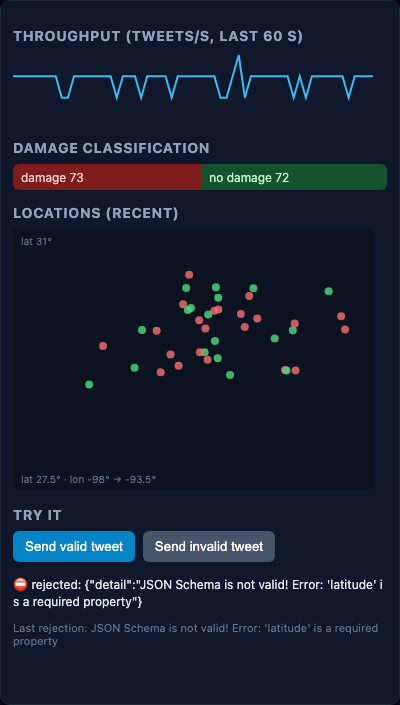
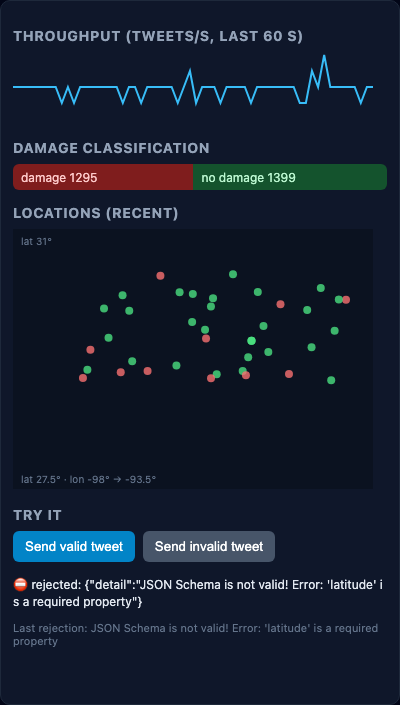
Migrate Azure Functions to the Python v2 programming model
- function_app.py with decorators; v1 function.json folders moved to legacy/v1-functions
- extension bundle [4.0.0, 5.0.0); Cosmos 4.x binding (container_name, connection)
- real Functions host in docker compose against Azurite/Event Hubs/Cosmos emulators
- tests unwrap v2 functions; CI smoke-tests the host; README + fresh screenshots

diff --git a/azure-func/function_app.py b/azure-func/function_app.py
@@ -1,0 +1,61 @@
+"""Hurricane tweet pipeline on the Azure Functions Python v2 programming model.
+
+Triggers and bindings are declared with decorators here; there is no function.json.
+App-setting names in `connection=` and %...% expressions resolve from app settings
+in Azure and from local.settings.json / environment variables locally.
+"""
+import json
+import typing
+import logging
+import os
+
+import azure.functions as func
+
+from shared_code.tweet_schema import TweetValidationError, parse_and_validate, to_cosmos_document
+
+# Function keys by default (APIM sits in front in Azure). The local docker compose host sets
+# HTTP_AUTH_LEVEL=anonymous because it has no key store to hand keys out from.
+app = func.FunctionApp(http_auth_level=func.AuthLevel(os.getenv("HTTP_AUTH_LEVEL", "function").lower()))
+
+
+@app.function_name(name="TriggerTweetsToBlobAndEventHub")
+@app.route(route="TriggerTweetsToBlobAndEventHub", methods=["GET", "POST"])
+@app.blob_output(arg_name="outputBlob", path="tweets/{rand-guid}.json",
+                 connection="STORAGE_CONNECTION")
+@app.event_hub_output(arg_name="outputEventHubMessage", event_hub_name="%EVENTHUB_NAME%",
+                      connection="EVENTHUB_CONNECTION")
+def tweets_to_blob_and_event_hub(req: func.HttpRequest,
+                                 outputBlob: func.Out[bytes],
+                                 outputEventHubMessage: func.Out[bytes]) -> func.HttpResponse:
+    """Validate a tweet, archive it to Blob Storage and forward it to Event Hubs."""
+    body = req.get_body()
+    try:
+        parse_and_validate(body)
+    except TweetValidationError as err:
+        logging.error(str(err))
+        return func.HttpResponse(str(err), status_code=400)
+
+    outputBlob.set(body)
+    outputEventHubMessage.set(body)
+    logging.info("Tweet written to blob storage and forwarded to Event Hub.")
+    return func.HttpResponse("This HTTP triggered function executed successfully.", status_code=200)
+
+
+@app.function_name(name="EventHubTriggerTweetsToCosmosDB")
+@app.event_hub_message_trigger(arg_name="events", event_hub_name="%EVENTHUB_NAME%",
+                               connection="EVENTHUB_CONNECTION",
+                               consumer_group="%EVENTHUB_FUNCTIONS_CONSUMER_GROUP%",
+                               cardinality=func.Cardinality.MANY, data_type=func.DataType.BINARY)
+@app.cosmos_db_output(arg_name="outputDocument", connection="COSMOS_CONNECTION",
+                      database_name="%COSMOS_DATABASE%", container_name="%COSMOS_CONTAINER%",
+                      create_if_not_exists=True, partition_key="/account_id")
+def event_hub_to_cosmos(events: typing.List[func.EventHubEvent],
+                        outputDocument: func.Out[func.DocumentList]) -> None:
+    # typing.List, not list[...]: the worker indexer silently drops functions annotated
+    # with the builtin generic (verified against the 4.x Python 3.12 host image).
+    """Write the whole Event Hub batch to Cosmos DB (one document per tweet, id = tweet_id)."""
+    docs = func.DocumentList()
+    for event in events:
+        docs.append(func.Document.from_dict(to_cosmos_document(json.loads(event.get_body()))))
+    outputDocument.set(docs)
+    logging.info("EventHub trigger wrote %d tweets to CosmosDB", len(docs))

diff --git a/tests/test_functions.py b/tests/test_functions.py
@@ -1,13 +1,22 @@
-"""The deployed Azure Functions, exercised with azure-functions test doubles."""
-import importlib
+"""The Azure Functions app (Python v2 model), exercised with azure-functions test doubles."""
 import json
+from pathlib import Path
 
 import azure.functions as func
 
+import function_app
 from stream.sample import generate
 
-http_fn = importlib.import_module("TriggerTweetsToBlobAndEventHub")
-eh_fn = importlib.import_module("EventHubTriggerTweetsToCosmosDB")
+FUNC_DIR = Path(__file__).resolve().parents[1] / "azure-func"
+
+
+def _user_fn(name: str):
+    """Unwrap the decorated function the way Microsoft Learn's unit-testing guide shows."""
+    return getattr(function_app, name).build().get_user_function()
+
+
+http_fn = _user_fn("tweets_to_blob_and_event_hub")
+eh_fn = _user_fn("event_hub_to_cosmos")
 
 
 class Out:
@@ -22,13 +31,13 @@ class Out:
 
 
 def _req(body: bytes) -> func.HttpRequest:
-    return func.HttpRequest(method="POST", url="/api/tweets", body=body)
+    return func.HttpRequest(method="POST", url="/api/TriggerTweetsToBlobAndEventHub", body=body)
 
 
 def test_http_function_writes_blob_and_event():
     body = json.dumps(generate(1)[0]).encode()
     blob, eh = Out(), Out()
-    resp = http_fn.main(_req(body), blob, eh)
+    resp = http_fn(_req(body), blob, eh)
     assert resp.status_code == 200
     assert blob.value == body and eh.value == body
 
@@ -37,7 +46,7 @@ def test_http_function_rejects_invalid():
     t = generate(1)[0]
     t.pop("tweet")
     blob, eh = Out(), Out()
-    resp = http_fn.main(_req(json.dumps(t).encode()), blob, eh)
+    resp = http_fn(_req(json.dumps(t).encode()), blob, eh)
     assert resp.status_code == 400
     assert blob.value is None and eh.value is None
 
@@ -46,5 +55,27 @@ def test_eventhub_function_keeps_whole_batch():
     tweets = generate(5)
     events = [func.EventHubEvent(body=json.dumps(t).encode()) for t in tweets]
     out = Out()
-    eh_fn.main(events, out)
+    eh_fn(events, out)
     assert [d["id"] for d in out.value] == [str(t["tweet_id"]) for t in tweets]
+
+
+def test_v2_model_registers_both_functions_with_expected_bindings():
+    fns = {f.get_function_name(): json.loads(f.get_function_json()) for f in function_app.app.get_functions()}
+    assert set(fns) == {"TriggerTweetsToBlobAndEventHub", "EventHubTriggerTweetsToCosmosDB"}
+    http_types = {b["type"] for b in fns["TriggerTweetsToBlobAndEventHub"]["bindings"]}
+    assert http_types == {"httpTrigger", "http", "blob", "eventHub"}
+    eh = {b["type"]: b for b in fns["EventHubTriggerTweetsToCosmosDB"]["bindings"]}
+    assert eh["eventHubTrigger"]["cardinality"].lower() == "many"
+    assert eh["cosmosDB"]["containerName"] == "%COSMOS_CONTAINER%"
+
+
+def test_no_function_json_and_bundle_4x():
+    assert not list(FUNC_DIR.rglob("function.json"))
+    host = json.loads((FUNC_DIR / "host.json").read_text())
+    assert host["extensionBundle"]["version"] == "[4.0.0, 5.0.0)"
+
+
+def test_event_hub_annotation_uses_typing_list():
+    # The worker indexer silently drops a function annotated with list[...] (see function_app.py).
+    src = (FUNC_DIR / "function_app.py").read_text()
+    assert "typing.List[func.EventHubEvent]" in src

diff --git a/scripts/screenshots.py b/scripts/screenshots.py
@@ -4,13 +4,16 @@
 Needs `docker compose up` with the producer running for ~30 s.
 """
 
+import html
 import os
+import subprocess
 
 from playwright.sync_api import sync_playwright
 
 OUT = "docs/screenshots"
 APP = os.getenv("APP_URL", "http://localhost:3000")
 API = os.getenv("API_URL", "http://localhost:8000")
+FUNCTIONS = os.getenv("FUNCTIONS_URL", "http://localhost:7071")
 COSMOS_EXPLORER = os.getenv("COSMOS_EXPLORER_URL", "http://localhost:1234")
 
 with sync_playwright() as p:
@@ -38,4 +41,18 @@ with sync_playwright() as p:
     page.wait_for_selector(".opblock-summary-path")
     page.wait_for_timeout(500)
     page.screenshot(path=f"{OUT}/api-docs.png")
+    # The real Azure Functions host (Python v2 app): landing page + its own execution log.
+    page.goto(FUNCTIONS)
+    page.wait_for_timeout(1000)
+    page.screenshot(path=f"{OUT}/functions-host.png")
+    logs = subprocess.run(["docker", "compose", "logs", "--no-log-prefix", "--tail", "4000", "functions"],
+                          capture_output=True, text=True).stdout.splitlines()
+    run = [ln for ln in logs if "Executed 'Functions." in ln]
+    keep = [ln for ln in run if "TriggerTweetsToBlobAndEventHub" in ln][-8:] + \
+        [ln for ln in run if "EventHubTriggerTweetsToCosmosDB" in ln][-12:]
+    page.set_content("<body style='margin:0;background:#0d1117'><pre style='color:#c9d1d9;font:13px/1.5 Menlo,monospace;"
+                     "padding:16px'>$ docker compose logs functions | grep Executed\n"
+                     + html.escape("\n".join(k.strip() for k in keep)) + "</pre></body>")
+    page.set_viewport_size({"width": 1440, "height": 520})
+    page.screenshot(path=f"{OUT}/functions-executions.png", full_page=True)
     browser.close()

diff --git a/README.md b/README.md
@@ -23,7 +23,7 @@ flowchart LR
     C --> BI[Power BI]
 ```
 
-The functions are still in [`azure-func/`](azure-func) and can be deployed as before. The original write-up (Kaggle preprocessing, Azure portal screenshots) is preserved in [docs/ORIGINAL_README.md](docs/ORIGINAL_README.md).
+The functions live in [`azure-func/function_app.py`](azure-func/function_app.py) and use the **Azure Functions Python v2 programming model** (decorators, no `function.json`; see [section 4](#4-azure-functions-python-v2)). They also run locally, on the real Functions host, against the emulators. The original write-up (Kaggle preprocessing, Azure portal screenshots) is preserved in [docs/ORIGINAL_README.md](docs/ORIGINAL_README.md).
 
 ## 3. The same pipeline, locally
 
@@ -34,7 +34,8 @@ Every Azure service has a local stand-in. The Azure SDKs are the real ones; only
 | API Management + HTTP Function | `api` (FastAPI), using the **same** schema code as the function (`azure-func/shared_code`) | 8000 |
 | Blob Storage | [Azurite](https://learn.microsoft.com/azure/storage/common/storage-use-azurite) | 10000-10002 |
 | Event Hubs | [Event Hubs emulator](https://learn.microsoft.com/azure/event-hubs/overview-emulator) (config in [`emulators/eventhubs-config.json`](emulators/eventhubs-config.json)) | 5672 AMQP, 9092 Kafka |
-| Event Hub → Cosmos Function | `worker`: Event Hub consumer (`cosmos-writer` group, checkpoints in Azurite) that upserts into Cosmos | – |
+| Both Azure Functions (v2 model) | `functions`: the real Azure Functions 4.x host (`mcr.microsoft.com/azure-functions/python:4-python3.12`) running `azure-func/function_app.py` against the emulators | 7071 |
+| Event Hub → Cosmos Function (feeds the live view) | `worker`: Event Hub consumer (`cosmos-writer` group, checkpoints in Azurite) that upserts into Cosmos | – |
 | Cosmos DB (NoSQL) | [Cosmos DB Linux emulator (vNext)](https://learn.microsoft.com/azure/cosmos-db/emulator-linux), works on arm64 and x64 | 8081, Data Explorer 1234 |
 | Power BI | `frontend`: React live view (Vite + TypeScript, served by nginx) | 3000 |
 | push_tweets.py | `producer`: replays the stream at 2 tweets/s, with every 25th tweet deliberately invalid | – |
@@ -52,6 +53,11 @@ flowchart LR
     API -->|SSE /api/live| UI
     API -->|/api/stats, /api/tweets| UI
     EH -. metadata .-> AZ
+    FX[functions · Azure Functions host<br/>function_app.py, v2] -->|blob output| AZ
+    FX -->|event_hub_output| EH
+    EH -->|functions group| FX
+    FX -->|cosmos_db_output| CO
+    CL[curl / APIM] -->|POST /api/TriggerTweetsToBlobAndEventHub| FX
 ```
 
 ### Message lifecycle
@@ -79,7 +85,51 @@ sequenceDiagram
     end
 ```
 
-## 4. Run it
+## 4. Azure Functions: Python v2
+
+Both functions are declared with decorators in one file, [`azure-func/function_app.py`](azure-func/function_app.py). The old `function.json` folders were moved (not deleted) to [`legacy/v1-functions/`](legacy/v1-functions).
+
+```mermaid
+flowchart LR
+    subgraph app["function_app.py · func.FunctionApp()"]
+        H["@app.route  TriggerTweetsToBlobAndEventHub<br/>@app.blob_output · @app.event_hub_output"]
+        T["@app.event_hub_message_trigger (cardinality many)<br/>EventHubTriggerTweetsToCosmosDB<br/>@app.cosmos_db_output"]
+    end
+    REQ[HTTP POST tweet] --> H
+    H -->|"tweets/rand-guid.json"| BLOB[("Blob · STORAGE_CONNECTION")]
+    H -->|event| EH{{"Event Hubs · EVENTHUB_CONNECTION<br/>EVENTHUB_NAME"}}
+    EH --> T
+    T -->|"DocumentList, id = tweet_id"| COS[("Cosmos DB · COSMOS_CONNECTION<br/>COSMOS_DATABASE / COSMOS_CONTAINER")]
+    SH["shared_code/tweet_schema.py"] -.-> H
+    SH -.-> T
+```
+
+| | v1 (before) | v2 (now) |
+|---|---|---|
+| Definition | `function.json` + `__init__.py` per function | decorators in `function_app.py` |
+| Extension bundle | `[3.*, 4.0.0)` (deprecated) | `[4.0.0, 5.0.0)` |
+| Cosmos binding | `collectionName`, `connectionStringSetting` (extension 3.x) | `container_name`, `connection` (extension 4.x) |
+| Python | 3.9 dev container | 3.12 (host image and dev container) |
+
+**App settings to set in Azure** (the v1 setting names were renamed): `STORAGE_CONNECTION`, `EVENTHUB_CONNECTION`, `EVENTHUB_NAME`, `EVENTHUB_FUNCTIONS_CONSUMER_GROUP` (`$Default` works), `COSMOS_CONNECTION`, `COSMOS_DATABASE`, `COSMOS_CONTAINER`. Optional: `HTTP_AUTH_LEVEL` (defaults to `function`; only the local compose host sets `anonymous`). `AzureWebJobsFeatureFlags=EnableWorkerIndexing` is **not** needed on the 4.x runtime. For `func start` outside Docker, copy [`azure-func/local.settings.example.json`](azure-func/local.settings.example.json) to `local.settings.json` (git-ignored) and fill in the emulator keys.
+
+Gotcha found while running it: annotate the Event Hub batch as `typing.List[func.EventHubEvent]`. With the builtin `list[...]` the worker's indexer silently registered zero functions.
+
+**The real host, running locally.** The `functions` service is the official Functions host image. It is published for amd64 only, so on Apple silicon it runs under emulation (`platform: linux/amd64`).
+
+![Functions host](docs/screenshots/functions-host.png)
+
+Its own log, with both functions executing against Azurite, the Event Hubs emulator and the Cosmos emulator:
+
+![Function executions](docs/screenshots/functions-executions.png)
+
+Try it:
+
+```bash
+curl -X POST http://localhost:7071/api/TriggerTweetsToBlobAndEventHub -d '{"tweet_id": 1}'   # 400 + schema error
+```
+
+## 5. Run it
 
 ```bash
 cp .env.example .env    # optional: defaults already target the emulators
@@ -91,14 +141,15 @@ docker compose up --build
 | http://localhost:3000 | Live view |
 | http://localhost:8000/docs | API (OpenAPI) |
 | http://localhost:1234 | Cosmos DB Data Explorer |
+| http://localhost:7071 | Azure Functions host (v2 app) |
 
-The first start takes about 30-60 s while the emulators boot. The api waits until all three are ready (`/health` reports each one), then the producer starts. Stop everything with `docker compose down`.
+The first start takes about 30-60 s (the Functions host a little longer under emulation) while the emulators boot. The api waits until all three are ready (`/health` reports each one), then the producer starts. Stop everything with `docker compose down`.
 
 > **Event Hubs emulator license.** Running the emulator requires accepting Microsoft's [emulator license terms](https://github.com/Azure/azure-event-hubs-emulator-installer/blob/main/EMULATOR_EULA.txt). `docker-compose.yml` passes `ACCEPT_EULA=Y` by default through `EVENTHUBS_EMULATOR_ACCEPT_EULA`.
 
 > **About the credentials in `stream/config.py`.** These are the *publicly documented* emulator defaults (Azurite `devstoreaccount1`, Event Hubs `SAS_KEY_VALUE`, the Cosmos emulator key). They are not secrets. To target real Azure, set the variables listed in `.env.example` in a `.env` that you never commit.
 
-## 5. What you see
+## 6. What you see
 
 **Live view.** It shows a counter for each pipeline stage, a throughput sparkline, the damage split, a map of where tweets came from, the live Event Hub feed (with image tiles), and the newest Cosmos documents:
 
@@ -116,9 +167,9 @@ The first start takes about 30-60 s while the emulators boot. The api waits unti
 
 ![API docs](docs/screenshots/api-docs.png)
 
-Screenshots are real, captured headless from the running stack with `uv run --with playwright python scripts/screenshots.py`.
+Screenshots are real, captured headless from the running stack with `uv run --no-project --with playwright python scripts/screenshots.py`.
 
-## 6. Data: synthetic by default
+## 7. Data: synthetic by default
 
 The original Kaggle datasets (Harvey tweets plus satellite damage images) need a Kaggle login and are not redistributable, so they are not in the repo. Locally, `stream/sample.py` generates a **deterministic synthetic stream** of 500 tweets in the same shape: templated Harvey-style text, coordinates around the Texas Gulf coast, a `damage_flag`, and a small generated PNG tile on about 60% of tweets. **None of it is real tweet or image data.**
 
@@ -128,30 +179,30 @@ To replay the real stream, run the original preprocessing (`preprocessing/script
 SAMPLE_PATH=/data/merged_tweets_image_metadata_stream.json  # mount it into the producer container
 ```
 
-## 7. Fixes made along the way
+## 8. Fixes made along the way
 
 - **The Event Hub → Cosmos function lost data.** It called `outputDocument.set()` once per event, so each batch kept only its last tweet. It now writes the whole batch as a `DocumentList`.
 - **Shared validation.** The HTTP function's schema check (400 on bad JSON or schema failure) moved into `shared_code/`, so the local api enforces exactly the same contract. A stray `ValueError` used to fall through and return nothing; it now returns a 400 too.
 - Cosmos documents get `id = str(tweet_id)`, so retries upsert instead of duplicating.
 - `push_tweets.py` defaults to the local api when `HURRICANE_API_URL` is unset.
 
-## 8. Project layout
+## 9. Project layout
 
 ```
-azure-func/            Azure Functions (deployable) + shared_code/ schema
+azure-func/            Azure Functions, Python v2 model (function_app.py) + shared_code/ schema + Dockerfile
 stream/                local stand-ins: api, worker, producer, sample data, config
 frontend/              React live view (Vite + TS, nginx)
 emulators/             Event Hubs emulator config
 tests/                 pytest: schema, sample, function bindings, api
 preprocessing/         original Kaggle preprocessing scripts
-legacy/                moved, not deleted: HttpTrigger1 template, old requirements.txt
+legacy/                moved, not deleted: v1 function.json functions, HttpTrigger1 template, old requirements.txt
 docs/                  original README, screenshots
 ```
 
-## 9. Tests and CI
+## 10. Tests and CI
 
 ```bash
-uv sync && uv run pytest -q   # 12 tests, no emulators needed
+uv sync && uv run pytest -q   # 15 tests, no emulators needed
 ```
 
-GitHub Actions runs the unit tests and the frontend type-check and build, then `docker compose build`.
+GitHub Actions runs the unit tests and the frontend type-check and build, then `docker compose build`, then a smoke test that boots the real Functions host on Azurite and the Event Hubs emulator and checks the v2 HTTP function returns 400 for an invalid tweet.
